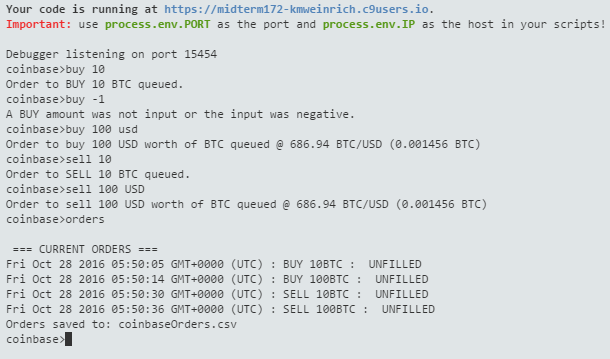
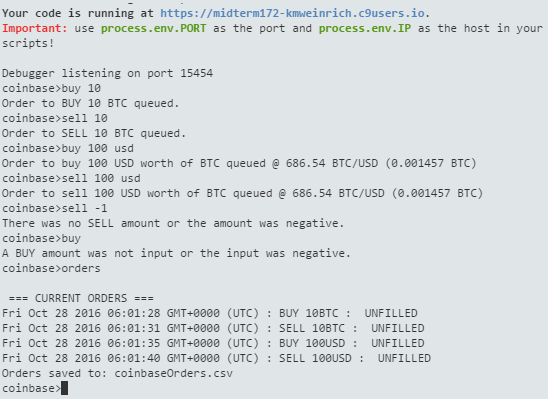
added coinbase order screenshot, fixed order printout

Changed region(s): [[0.0, 0.0, 1.0, 1.0]]

diff --git a/orders.js b/orders.js
@@ -159,7 +159,7 @@ function sell(rem, callback) {
 
 function addToOrders(actionType, amount, currency) {
         //default to btc:  "sell x btc, buy x btc"
-        if(c==null){
+        if(currency==null){
             c='BTC';
         }
         else{
